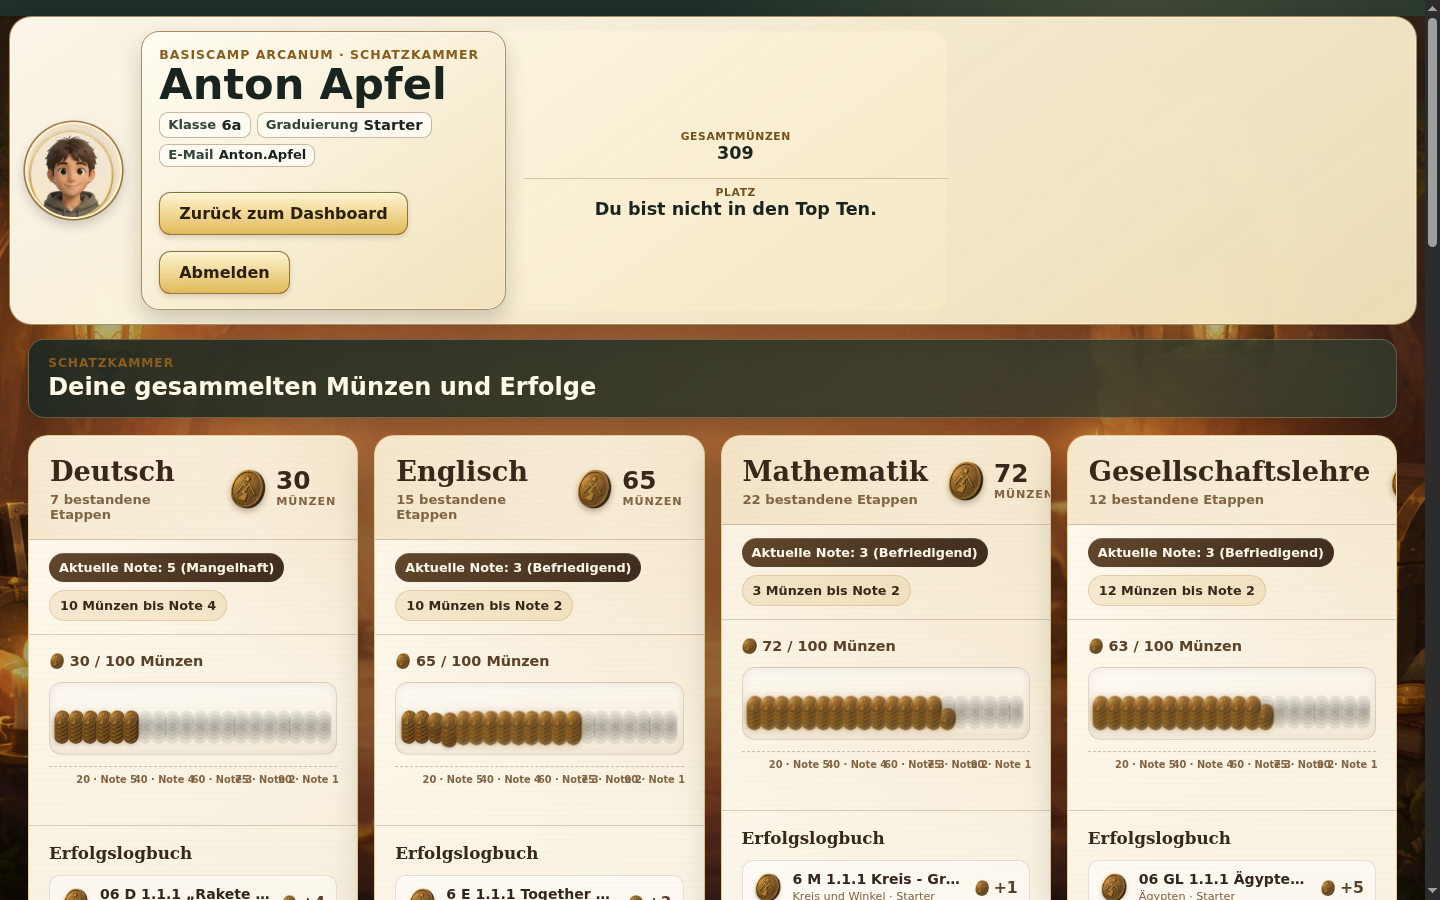
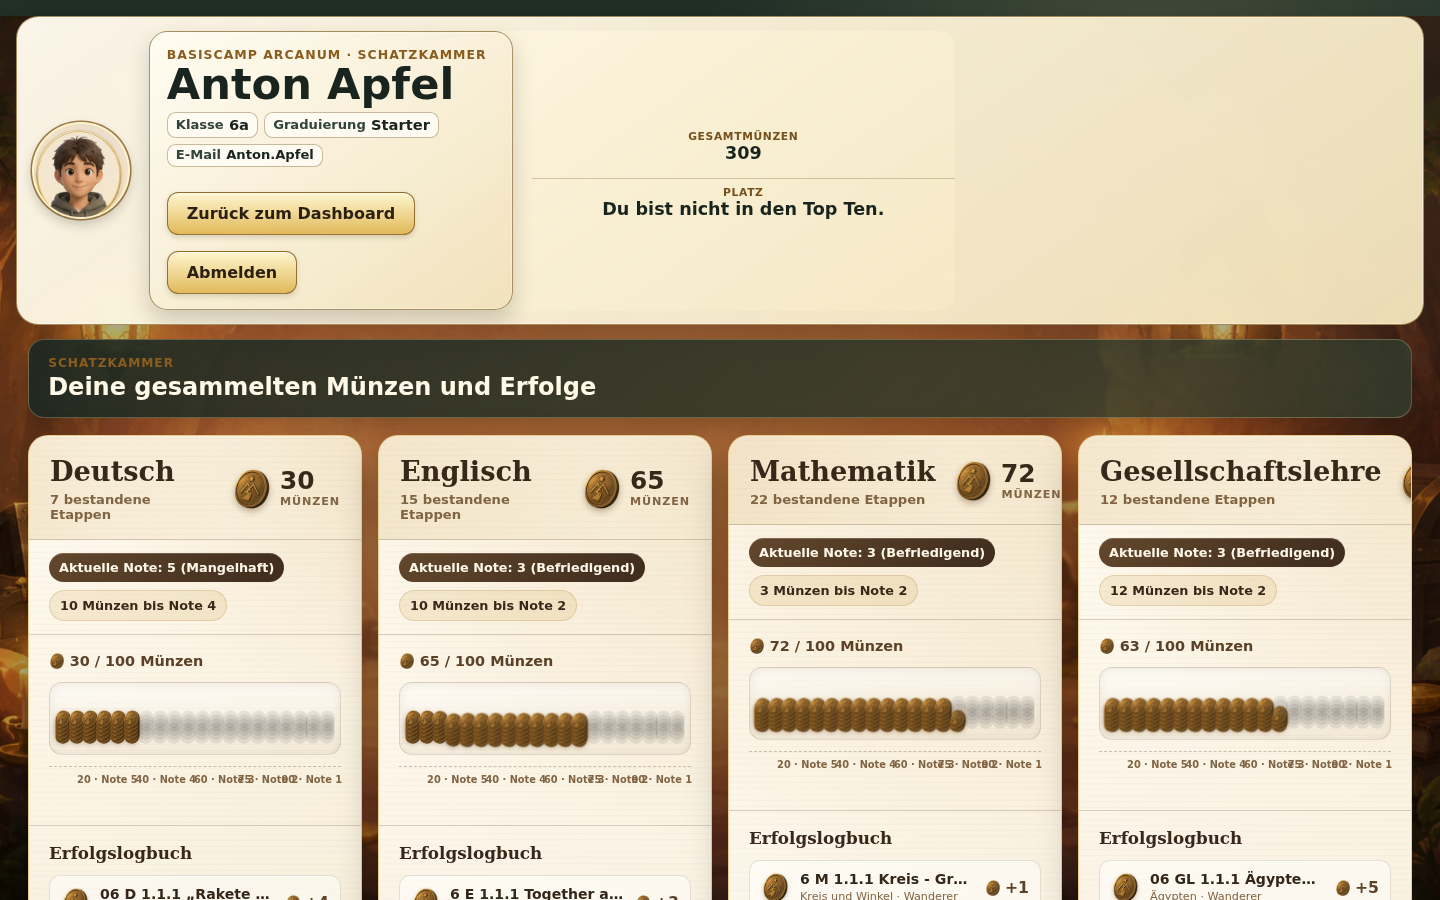
docs: refresh Schatzkammer after level label fix

diff --git a/docs/handbuch.de.md b/docs/handbuch.de.md
@@ -223,9 +223,8 @@ Thema und das Niveau, sowie die verliehene Belohnung. Bei variablen flexiblen
 Etappen kann dort zum Beispiel **„2 von 4 Münzen“** stehen: Die Etappe konnte
 bis zu vier Münzen bringen, tatsächlich wurden aber zwei gutgeschrieben.
 
-Im aktuellen DEMO-Stand kann Niveau 1 im Erfolgslogbuch noch fälschlich als
-**„Starter“** erscheinen; fachlich ist damit **„Wanderer“** gemeint. Die
-fachlichen Niveaus heißen Wanderer, Bergsteiger und Gipfelstürmer.
+Die fachlichen Niveaus heißen **Wanderer** (1), **Bergsteiger** (2) und
+**Gipfelstürmer** (3).
 
 Hier kann der Schüler keine Note frei eingeben; Änderungen entstehen durch
 bestätigte Etappen im Lernweg.
@@ -246,5 +245,5 @@ Tutorbereich, Anwesenheit, Schuljahr, Curriculum und Berechtigungen.
 ## Begriffe und Sicherheit
 
 Alle Konten und Daten der DEMO sind synthetisch. Keine PROD-Zugangsdaten,
-Passwörter, Tokens oder privaten Daten gehören in Screenshots. Die DEMO ist
+Passwörter, Tokens oder private Daten gehören nicht in Screenshots. Die DEMO ist
 gemeinsam genutzt: Bitte nur lesen, ansehen und Vorschauen verwenden.
